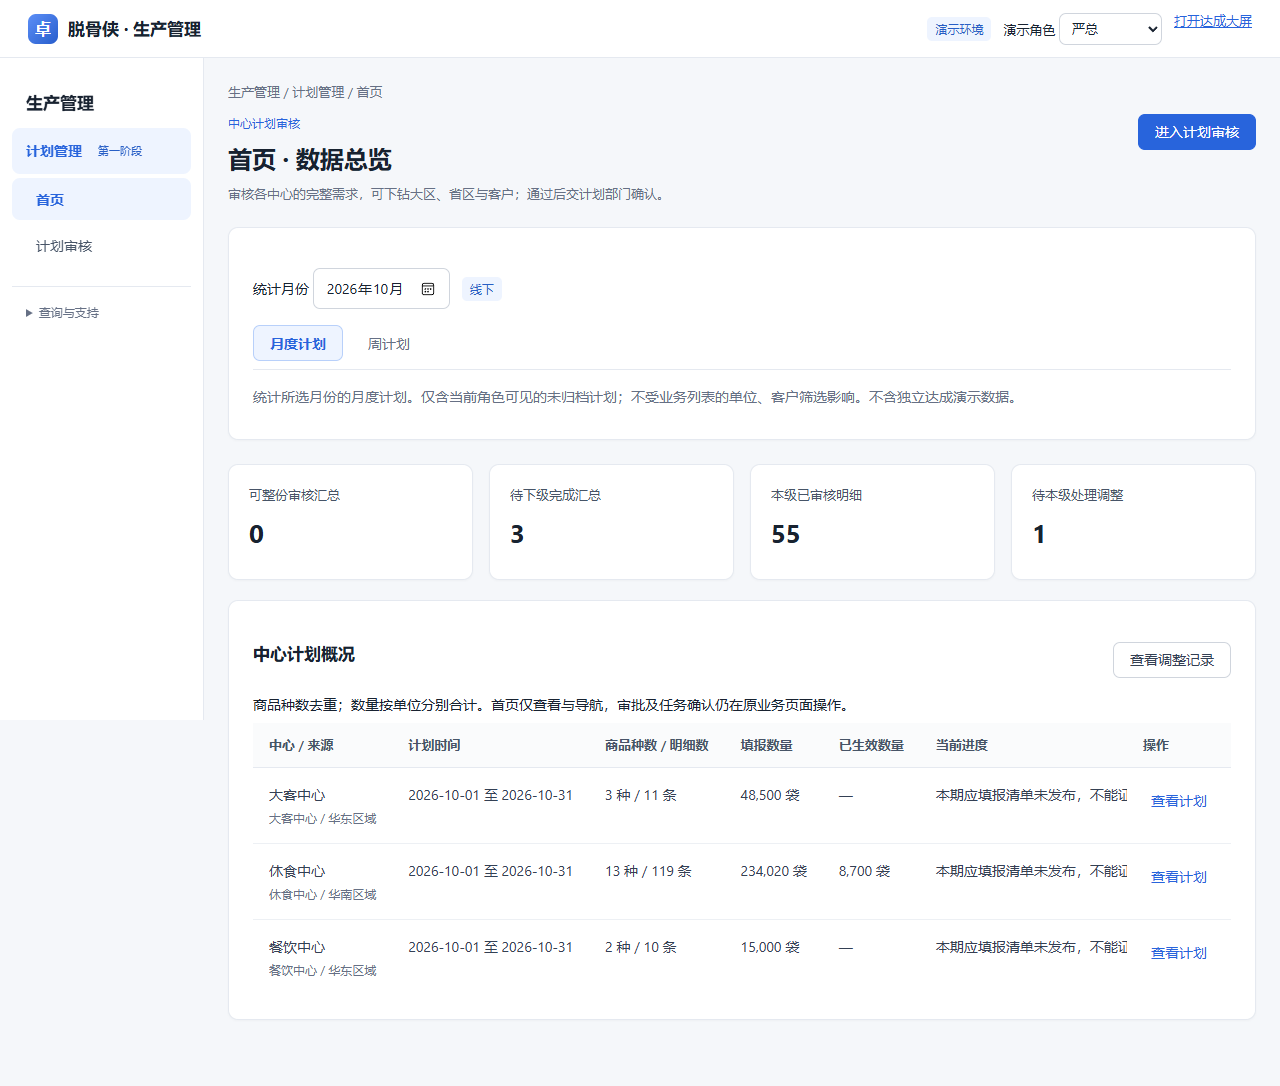
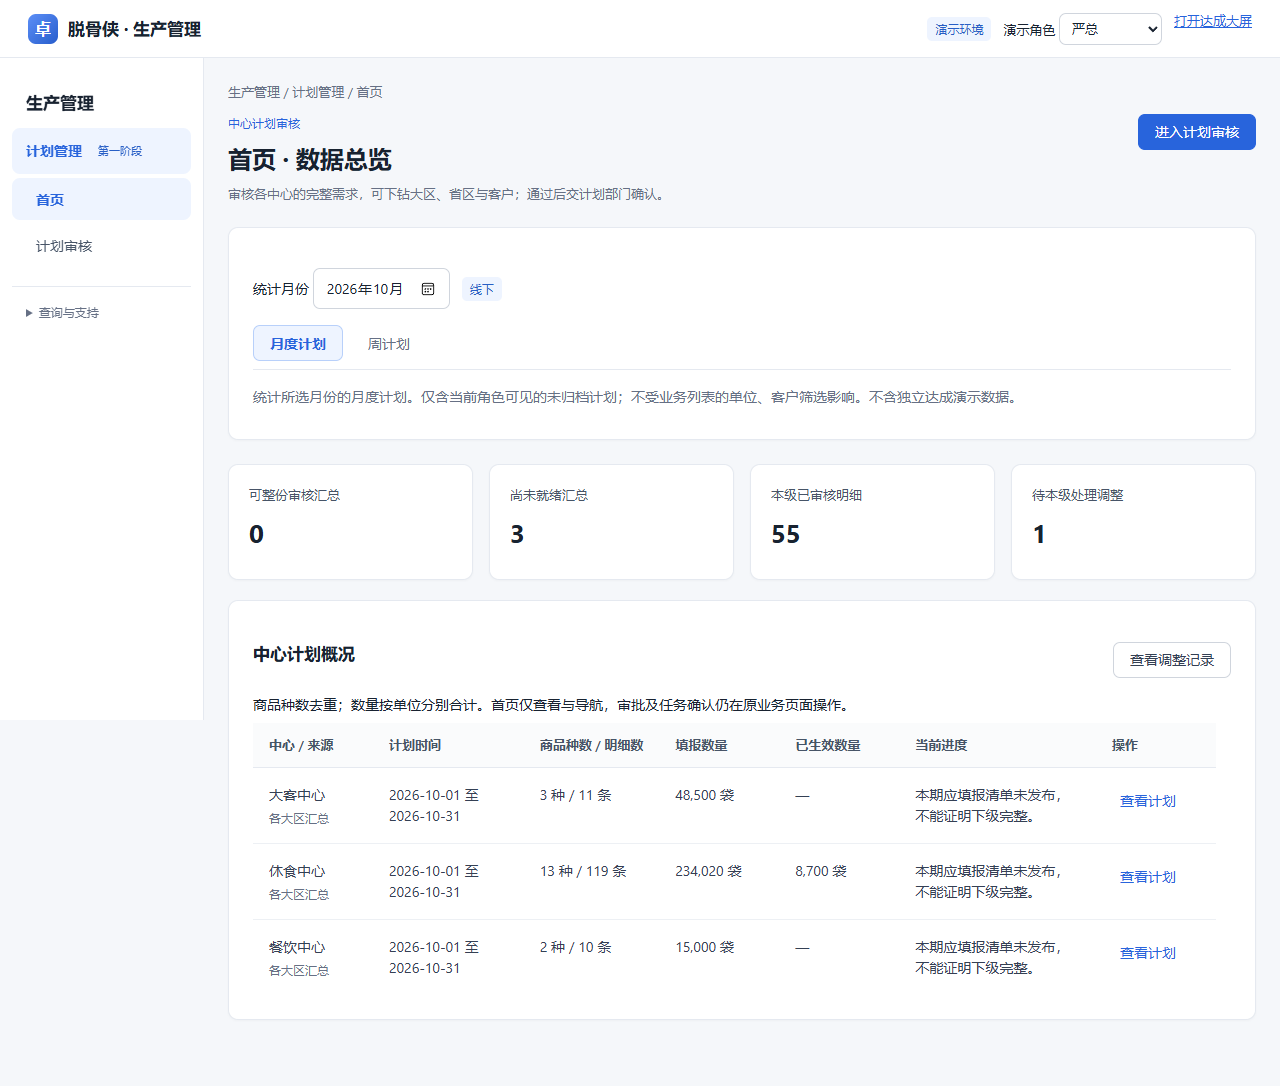
Auto sync 2026-10-13 23:12:27

diff --git a/09-设计与原型/销售计划管理/角色任务聚焦.js b/09-设计与原型/销售计划管理/角色任务聚焦.js
@@ -19,9 +19,9 @@
  xs.forEach(p=>{const id=JSON.stringify([business==='offline'?p.center:'', ['province','customer'].includes(key)?p.area:'',key==='customer'?p.province:'',p[key],p.start,p.end]);const g=groups.get(id)||{name:p[key]||'未维护',start:p.start,end:p.end,plans:[]};g.plans.push(p);groups.set(id,g);});
  const ready=g=>g.plans.every(p=>!p.rejected&&!PlanChange.pending(d,p)&&SalesPlan.chain(p)[p.stage]===role)&&!BusinessRelease.reviewGuard(d,g.plans,role),effective=p=>SalesPlan.effective(p),draft=xs.filter(p=>p.stage<0&&!p.rejected),returned=xs.filter(p=>p.rejected),pending=xs.filter(p=>!p.rejected&&p.stage>=SalesPlan.chain(p).length&&!effective(p));
  const changes=d.adjustments.filter(c=>{const p=xs.find(p=>p.id===c.plan);return p&&c.approver===role&&['待计划部门确认','待OA审批'].includes(c.status);});
- const done=xs.filter(effective),cards=admin?(role==='商品管理员'?[['商品总数',d.products.length],['启用商品',d.products.filter(p=>p.enabled).length],['停用商品',d.products.filter(p=>!p.enabled).length]]:[['已配置填报窗口',Object.keys(d.periodWindows||{}).length],['已发布填报清单',(d.coveragePeriods||[]).filter(c=>c.status==='published').length],['已确认销量口径',['offline','online'].filter(b=>d.orderPolicies[b]?.version).length]]):fill?[['草稿商品明细',draft.length],['退回待修改明细',returned.length],['流转中明细',xs.filter(p=>p.stage>=0&&!p.rejected&&!effective(p)).length],['已生效明细',done.length]]:review?[['可整份审核汇总',[...groups.values()].filter(ready).length],['待下级完成汇总',[...groups.values()].filter(g=>!ready(g)&&g.plans.some(p=>p.rejected||p.stage<=SalesPlan.chain(p).indexOf(role))).length],['本级已审核明细',xs.filter(p=>p.history.some(h=>h.by===role&&/审核/.test(h.action)&&!/调整|加急/.test(h.action))).length],['待本级处理调整',changes.length]]:[['待确认新计划',pending.length],['待确认调整',changes.length],['已生效明细',done.length],['来源商品种数',new Set(xs.map(p=>p.product)).size]];
+ const done=xs.filter(effective),cards=admin?(role==='商品管理员'?[['商品总数',d.products.length],['启用商品',d.products.filter(p=>p.enabled).length],['停用商品',d.products.filter(p=>!p.enabled).length]]:[['已配置填报窗口',Object.keys(d.periodWindows||{}).length],['已发布填报清单',(d.coveragePeriods||[]).filter(c=>c.status==='published').length],['已确认销量口径',['offline','online'].filter(b=>d.orderPolicies[b]?.version).length]]):fill?[['草稿商品明细',draft.length],['退回待修改明细',returned.length],['流转中明细',xs.filter(p=>p.stage>=0&&!p.rejected&&!effective(p)).length],['已生效明细',done.length]]:review?[['可整份审核汇总',[...groups.values()].filter(ready).length],['尚未就绪汇总',[...groups.values()].filter(g=>!ready(g)&&g.plans.some(p=>p.rejected||p.stage<=SalesPlan.chain(p).indexOf(role))).length],['本级已审核明细',xs.filter(p=>p.history.some(h=>h.by===role&&/审核/.test(h.action)&&!/调整|加急/.test(h.action))).length],['待本级处理调整',changes.length]]:[['待确认新计划',pending.length],['待确认调整',changes.length],['已生效明细',done.length],['来源商品种数',new Set(xs.map(p=>p.product)).size]];
  const target=fill?'plans':review?'review':role==='计划部门'?'acceptance':role==='商品管理员'?'products':'businessRules',action=fill?'进入计划填报':review?'进入计划审核':role==='计划部门'?'进入任务确认':role==='商品管理员'?'进入商品管理':'进入规则配置';
- document.getElementById('content').innerHTML='<section class="task-context"><div><div class="task-eyebrow">'+E(roles[role].name)+'</div><h1>首页 · 数据总览</h1><p>'+E(roles[role].goal)+'</p></div><button class="primary" id="homePrimary">'+action+'</button></section>'+(admin?'':'<section class="card"><div class="row"><label>统计月份 <input id="homeMonth" type="month" value="'+E(homeMonth)+'"></label>'+(role==='计划部门'?'<label>业务 <select id="homeBusiness"><option value="offline">线下</option><option value="online">线上</option></select></label>':'<span class="tag">'+(business==='online'?'线上':'线下')+'</span>')+'</div><div class="summary-tabs" aria-label="计划类型"><button data-home-kind="month" aria-pressed="'+(homeKind==='month')+'">月度计划</button><button data-home-kind="week" aria-pressed="'+(homeKind==='week')+'">周计划</button></div><p class="muted">'+(homeKind==='week'?'统计开始日期在所选月份的周计划，不与月度相加。':'统计所选月份的月度计划。')+'仅含当前角色可见的未归档计划；不受业务列表的单位、客户筛选影响。不含独立达成演示数据。</p></section>')+'<div class="metrics">'+cards.map(([title,n])=>'<div class="metric">'+title+'<strong>'+n+'</strong></div>').join('')+'</div>'+(admin?'<section class="card"><h2>管理职责</h2><p>'+E(roles[role].goal)+'</p><p>管理统计为全局配置数量，不代表本期填报完成率。</p></section>':'<section class="card"><div class="row space"><h2>'+label+'计划概况</h2><button id="homeAdjustments">查看调整记录</button></div><p>商品种数去重；数量按单位分别合计。首页仅查看与导航，审批及任务确认仍在原业务页面操作。</p><div class="table-wrap"><table><thead><tr><th>'+label+' / 来源</th><th>计划时间</th><th>商品种数 / 明细数</th><th>填报数量</th><th>已生效数量</th><th>当前进度</th><th>操作</th></tr></thead><tbody>'+[...groups.values()].map((g,i)=>'<tr><td>'+E(g.name)+(business==='offline'?'<small>'+E(g.plans[0].center+' / '+g.plans[0].area)+'</small>':'')+'</td><td>'+E(g.start+' 至 '+g.end)+'</td><td>'+new Set(g.plans.map(p=>p.product)).size+' 种 / '+g.plans.length+' 条</td><td>'+quantity(g.plans)+'</td><td>'+quantity(g.plans.filter(effective))+'</td><td>'+E(review?(ready(g)?'可整份审核':BusinessRelease.reviewGuard(d,g.plans,role)||[...new Set(g.plans.map(p=>SalesPlan.status(d,p)))].join(' / ')):[...new Set(g.plans.map(p=>SalesPlan.status(d,p)))].join(' / '))+'</td><td><button data-home-group="'+i+'">查看计划</button></td></tr>').join('')+' </tbody></table></div>'+(!xs.length?'<div class="empty">当前月份暂无可见计划。可切换月份，或进入业务页面查看和填报。</div>':'')+'</section>');
+ document.getElementById('content').classList.add('role-home');document.getElementById('content').innerHTML='<section class="task-context"><div><div class="task-eyebrow">'+E(roles[role].name)+'</div><h1>首页 · 数据总览</h1><p>'+E(roles[role].goal)+'</p></div><button class="primary" id="homePrimary">'+action+'</button></section>'+(admin?'':'<section class="card"><div class="row"><label>统计月份 <input id="homeMonth" type="month" value="'+E(homeMonth)+'"></label>'+(role==='计划部门'?'<label>业务 <select id="homeBusiness"><option value="offline">线下</option><option value="online">线上</option></select></label>':'<span class="tag">'+(business==='online'?'线上':'线下')+'</span>')+'</div><div class="summary-tabs" aria-label="计划类型"><button data-home-kind="month" aria-pressed="'+(homeKind==='month')+'">月度计划</button><button data-home-kind="week" aria-pressed="'+(homeKind==='week')+'">周计划</button></div><p class="muted">'+(homeKind==='week'?'统计开始日期在所选月份的周计划，不与月度相加。':'统计所选月份的月度计划。')+'仅含当前角色可见的未归档计划；不受业务列表的单位、客户筛选影响。不含独立达成演示数据。</p></section>')+'<div class="metrics">'+cards.map(([title,n])=>'<div class="metric">'+title+'<strong>'+n+'</strong></div>').join('')+'</div>'+(admin?'<section class="card"><h2>管理职责</h2><p>'+E(roles[role].goal)+'</p><p>管理统计为全局配置数量，不代表本期填报完成率。</p></section>':'<section class="card"><div class="row space"><h2>'+label+'计划概况</h2><button id="homeAdjustments">查看调整记录</button></div><p>商品种数去重；数量按单位分别合计。首页仅查看与导航，审批及任务确认仍在原业务页面操作。</p><div class="table-wrap"><table><thead><tr><th>'+label+' / 来源</th><th>计划时间</th><th>商品种数 / 明细数</th><th>填报数量</th><th>已生效数量</th><th>当前进度</th><th>操作</th></tr></thead><tbody>'+[...groups.values()].map((g,i)=>'<tr><td>'+E(g.name)+(business==='offline'?'<small>'+E(key==='center'?'各大区汇总':g.plans[0].center+' / '+g.plans[0].area)+'</small>':'')+'</td><td>'+E(g.start+' 至 '+g.end)+'</td><td>'+new Set(g.plans.map(p=>p.product)).size+' 种 / '+g.plans.length+' 条</td><td>'+quantity(g.plans)+'</td><td>'+quantity(g.plans.filter(effective))+'</td><td>'+E(review?(ready(g)?'可整份审核':BusinessRelease.reviewGuard(d,g.plans,role)||[...new Set(g.plans.map(p=>SalesPlan.status(d,p)))].join(' / ')):[...new Set(g.plans.map(p=>SalesPlan.status(d,p)))].join(' / '))+'</td><td><button data-home-group="'+i+'">查看计划</button></td></tr>').join('')+' </tbody></table></div>'+(!xs.length?'<div class="empty">当前月份暂无可见计划。可切换月份，或进入业务页面查看和填报。</div>':'')+'</section>');
  const go=(view,g)=>{const f=a.filters();delete f.demoCase;delete f.achievementDemo;Object.assign(f,{business,kind:homeKind,cycle:homeKind==='month'?homeMonth:(g?.start||homeMonth+'-01'),center:'all',area:'all',province:'all',channel:'all'});if(g){const p=g.plans[0];f.unit=p.unit;if(business==='online')f.channel=p.channel;else{f.center=p.center;if(key!=='center')f.area=p.area;if(['province','customer'].includes(key))f.province=p.province;}}a.setView(view);};
  document.getElementById('homePrimary').onclick=()=>go(target,[...groups.values()][0]);document.getElementById('homeAdjustments')?.addEventListener('click',()=>go('adjustments',[...groups.values()][0]));document.querySelectorAll('[data-home-group]').forEach(b=>b.onclick=()=>go(target,[...groups.values()][Number(b.dataset.homeGroup)]));document.getElementById('homeMonth')?.addEventListener('change',e=>{if(e.target.value){homeMonth=e.target.value;a.render();}});document.querySelectorAll('[data-home-kind]').forEach(b=>b.onclick=()=>{homeKind=b.dataset.homeKind;a.render();});const bs=document.getElementById('homeBusiness');if(bs){bs.value=homeBusiness;bs.onchange=e=>{homeBusiness=e.target.value;a.render();};}
  document.querySelector('.breadcrumb').textContent='生产管理 / 计划管理 / 首页';

diff --git a/09-设计与原型/销售计划管理/销售计划管理.js b/09-设计与原型/销售计划管理/销售计划管理.js
@@ -28,7 +28,7 @@
     document.getElementById('root').innerHTML=`<header><div><strong>脱骨侠 · ${screen?'生产管理 · 计划达成分析':'生产管理'}</strong><div class="muted">第一阶段 · 计划管理 · 需求计划填报</div></div><div class="row">${!screen?`<label>演示角色 <select id="role">${options(['省区填报','线上运营','大区审核','中心审核','严总','丹总','计划部门','商品管理员','规则管理员'],role)}</select></label>`:''}<a href="${screen?'14-销售仓库协同数字驾驶舱.html':'15-销售仓库协同可视化大屏.html'}">${screen?'返回计划管理':'打开达成大屏'}</a></div></header><main><div class="notice">交互演示数据 · OMS、旺店通及 OA 未接入真实系统。${!d.orderPolicies.offline.version||!d.orderPolicies.online.version?'销量统计口径待确认，正式达成率暂不计算。':''}</div>${!screen?`<nav aria-label="生产管理导航"><div class="module-parent">生产管理</div><div class="module-current">计划管理 <span class="tag">第一阶段</span></div><div class="module-group">计划业务</div><button data-plan-kind="month" aria-current="${view==='plans'&&filters.kind==='month'}">月度计划</button><button data-plan-kind="week" aria-current="${view==='plans'&&filters.kind==='week'}">周计划</button>${[['review','分级审核'],['adjustments','计划调整'],['products','可填报商品'],['orders','订单关联'],['analysis','达成分析'],['rules','填报规则']].map(([k,t])=>`${k==='products'?'<div class="module-group">计划支撑</div>':''}<button data-view="${k}" aria-current="${view===k}">${t}</button>`).join('')}</nav>`:''}<div class="breadcrumb" aria-label="当前位置">生产管理 / 计划管理 / ${({plans:filters.kind==='month'?'月度计划':'周计划',review:'分级审核',adjustments:'计划调整',products:'可填报商品',orders:'订单关联',analysis:'达成分析',rules:'填报规则',demand:'已确认需求总表',progress:'填报进度',notifications:'通知与待办',businessRules:'业务规则与权限',salesHistory:'历史销售查询',monthRecap:'月周预测复盘',acceptance:'需求承接',demoStates:'全流程演示案例'})[view]}</div><div class="phase-banner"><strong>第一阶段 · 计划管理</strong><span>填报需求计划 → 审核确认 → 调整执行 → 计划跟踪</span></div><div id="content">${['plans','review','analysis'].includes(view)?filterBar():''}${content()}</div></main><dialog id="dialog" aria-labelledby="dialogTitle"></dialog><div id="message" role="status" aria-live="polite"></div>`;
     document.querySelectorAll('[data-plan-kind]').forEach(b=>b.onclick=()=>{const kind=b.dataset.planKind;try{localStorage.setItem('tgx_plan_filters_'+filters.kind,JSON.stringify(filters));const saved=JSON.parse(localStorage.getItem('tgx_plan_filters_'+kind));filters=saved||{business:'all',kind,center:'all',area:'all',province:'all',channel:'all',unit:'袋',cycle:kind==='month'?'2026-10':'2026-10-12'};filters.kind=kind;localStorage.setItem('tgx_plan_filters',JSON.stringify(filters));}catch{filters.kind=kind;filters.cycle=kind==='month'?'2026-10':'2026-10-12';}view='plans';render();});
     document.querySelectorAll('[data-view]').forEach(b=>b.onclick=()=>{view=b.dataset.view;render();});
-    document.getElementById('role')?.addEventListener('change',e=>{role=e.target.value;taskStatus='all';filters.center='all';filters.area='all';filters.province='all';filters.channel='all';filters.business=role==='线上运营'||role==='丹总'?'online':'offline';view=['大区审核','中心审核','严总','丹总'].includes(role)?'review':role==='计划部门'?'acceptance':role==='商品管理员'?'products':role==='规则管理员'?'rules':'plans';render();});
+    document.getElementById('role')?.addEventListener('change',e=>{role=e.target.value;taskStatus='all';filters.center='all';filters.area='all';filters.province='all';filters.channel='all';filters.business=role==='线上运营'||role==='丹总'?'online':'offline';view=view==='home'?'home':['大区审核','中心审核','严总','丹总'].includes(role)?'review':role==='计划部门'?'acceptance':role==='商品管理员'?'products':role==='规则管理员'?'rules':'plans';render();});
     document.querySelectorAll('[data-filter]').forEach(el=>el.onchange=()=>{filters[el.dataset.filter]=el.value;if(el.dataset.filter==='business'){filters.center='all';filters.area='all';filters.province='all';filters.channel='all';}if(el.dataset.filter==='kind')filters.cycle=el.value==='month'?'2026-10':'2026-10-12';if(el.dataset.filter==='center'){filters.area='all';filters.province='all';}if(el.dataset.filter==='area')filters.province='all';try{localStorage.setItem('tgx_plan_filters',JSON.stringify(filters));}catch{}render();});
     document.querySelectorAll('[data-action]').forEach(b=>b.onclick=()=>action(b.dataset.action,b.dataset.id));
     SalesUX.decorate(uxApi);PlanChange.decorate(uxApi);if(view==='review'&&['大区审核','中心审核','严总','丹总'].includes(role))PlanHierarchy.render(uxApi);PlanTaskUI.decorate(uxApi);AuditStateUI.decorate(uxApi);PlanBusiness.decorate(uxApi);SalesHistory.decorate(uxApi);MonthRecap.decorate(uxApi);BusinessTables.decorate(uxApi);PlanWorkflow.decorate(uxApi);WorkflowDemo.decorate(uxApi);TaskConfirmation.decorate(uxApi);StableSidebar.decorate(uxApi);PersonGovernance.decorate(uxApi);BusinessRelease.decorate(uxApi);OrderPolicy.decorate(uxApi);NoDemandFlow.decorate(uxApi);ClosedLoopDemo.decorate(uxApi);PlanAchievement.decorate(uxApi);AchievementDemo.decorate(uxApi);FilingUX.decorate(uxApi);UrgentAdjustmentDemo.decorate(uxApi);RoleFocus.decorate(uxApi);

diff --git a/09-设计与原型/销售计划管理/销售计划管理.css b/09-设计与原型/销售计划管理/销售计划管理.css
@@ -77,3 +77,7 @@ body:not(.screen) header{height:auto;min-height:58px}#salesPerson{max-width:360p
 .quantity-totals th{position:static!important;white-space:normal;background:#eef4ff!important;color:#173d71;font-weight:600}.quantity-totals span{font-weight:400;color:#475467}.quantity-inline-summary{padding:12px 16px;border-top:1px solid var(--line);border-bottom:1px solid var(--line);background:#f8faff;white-space:normal}
 
 
+/* Role overview: preserve readable status text and unit-specific quantities. */
+.role-home table td{white-space:normal;overflow:visible;text-overflow:clip;min-width:120px;max-width:320px;overflow-wrap:anywhere}
+.role-home .metrics{grid-template-columns:repeat(auto-fit,minmax(200px,1fr))}
+@media(max-width:480px){.role-home .metrics{grid-template-columns:1fr}.role-home .task-context{align-items:stretch}.role-home .task-context button{width:100%}}

diff --git a/09-设计与原型/销售计划管理/README.md b/09-设计与原型/销售计划管理/README.md
@@ -30,3 +30,8 @@
 在“调整记录”或“演示案例”点击“补充6条加急调整测试申请”，查看2028年独立周期的增量、减量、换商品、中心处理中、驳回、确认生效样例；点击“查看申请”进入对应角色和周期。加急仅是优先标识，不新增OA或绕过原审批/确认。原有时限和减量订单下限校验仍生效，未配置时依然阻断确认。样例不覆盖原计划或配置。
 
 
+## 角色首页（2026-10-13）
+
+左侧“首页”展示当前角色的数据总览；在首页切换演示角色会继续停留在首页。省区看客户、线上运营看渠道，大区看省区、中心看大区、严总看中心、丹总看渠道；计划部门分别查看线上线下的确认任务，管理员查看商品或规则配置。
+
+月度与周计划分开统计，周计划统计开始日在所选月份的记录，不与月度合并。数量按单位汇总，仅计角色权限内未归档计划，不含独立达成演示数据。“可整份审核”沿用完整汇总及发布清单校验，不等同于任意待审明细数量。首页仅导航，不直接审核或确认，不改变业务流程。
